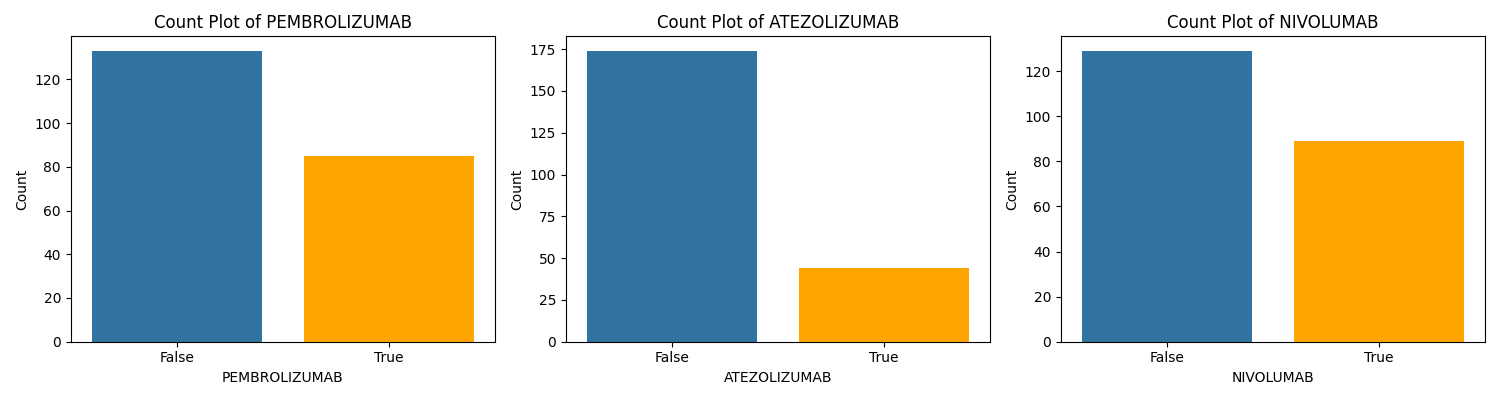
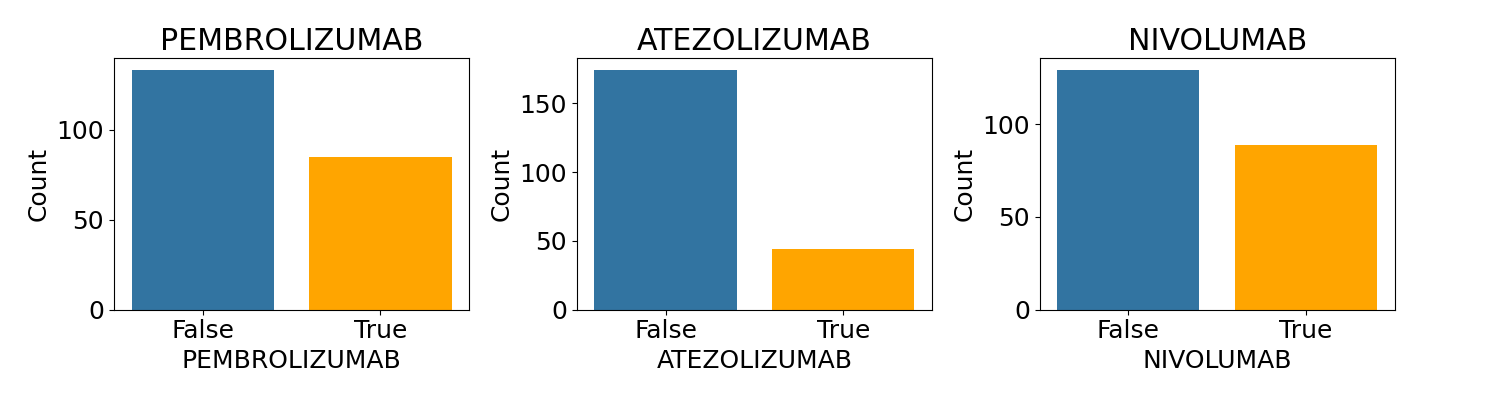
fix plot font sizes

Changed region(s): [[0.0, 0.03, 0.644, 0.96], [0.6133, 0.03, 0.9813, 0.96]]

diff --git a/eda/plots.py b/eda/plots.py
@@ -16,15 +16,17 @@ df = df.drop(columns=exclude_vars)
 
 print(df.columns)
 
-# Select variables to plot
+# rename long column names
+df = df.rename(columns={'CLINICALLY_REPORTED_PD-L1_SCORE': 'PD-L1_SCORE'})
 
 # 'PFS_STATUS', include PFS via KM
 demographic_variables = ['AGE', 'IS_FEMALE', 'PACK-YEAR_HISTORY']
 clinical_variables = ['ECOG', 'DNLR', 'ALBUMIN']
-genomic_variables = ['EGFR_DRIVER', 'ERBB2_DRIVER', 'STK11_DRIVER', "IMPACT_TMB_SCORE", "CLINICALLY_REPORTED_PD-L1_SCORE", 'FRACTION_GENOME_ALTERED']
+genomic_variables = ["IMPACT_TMB_SCORE", "PD-L1_SCORE", 'FRACTION_GENOME_ALTERED']
 drug_variables = ['PEMBROLIZUMAB', 'ATEZOLIZUMAB', 'NIVOLUMAB']
 
 def make_plots(variables_to_plot, name):
+    plt.rcParams.update({'font.size': 18})
     # Determine grid size for subplots based on the number of variables
     n_plots = len(variables_to_plot)
     if n_plots == 3:
@@ -57,7 +59,7 @@ def make_plots(variables_to_plot, name):
             counts = df[col].value_counts()
             labels = ['Male', 'Female'] if set(df[col]) == {0, 1} else counts.index
             ax.pie(counts, labels=labels, autopct='%1.1f%%')
-            ax.set_title('Pie Chart of IS_FEMALE')
+            ax.set_title('SEX')
         elif col == 'PFS_MONTHS':
             # Kaplan-Meier Survival Curve
             T = df['PFS_MONTHS']
@@ -84,7 +86,7 @@ def make_plots(variables_to_plot, name):
             if dtype == 'object' or n_unique <= 5:
                 # Categorical or binary variable
                 sns.countplot(x=col, data=df, ax=ax)
-                ax.set_title(f'Count Plot of {col}')
+                ax.set_title(f'{col}')
                 ax.set_xlabel(col)
                 ax.set_ylabel('Count')
                 
@@ -94,18 +96,16 @@ def make_plots(variables_to_plot, name):
             else:
                 # Quantitative variable
                 sns.histplot(df[col].dropna(), kde=False, ax=ax)
-                ax.set_title(f'Histogram of {col}')
+                ax.set_title(f'{col}')
                 ax.set_xlabel(col)
                 ax.set_ylabel('Frequency')
-
-    # adjust spacing between plots
-    plt.subplots_adjust(wspace=0, hspace=0)
     
     # Hide any unused subplots
     for j in range(i + 1, n_rows * n_cols):
         fig.delaxes(axes[j])
 
     plt.tight_layout()
+    plt.subplots_adjust(right = 0.93)
     plt.savefig(f'{name}.png')
     plt.show()
     
@@ -123,7 +123,24 @@ def info():
     # Pack-year
     print(f"Minimum Pack-Year History: {df['PACK-YEAR_HISTORY'].min()}, Median Pack-Year History: {df['PACK-YEAR_HISTORY'].median()}, Maximum Pack-Year History: {df['PACK-YEAR_HISTORY'].max()}")
     
-#make_plots(demographic_variables, "EDA Demographic Plots - MSKMIND")
-#make_plots(clinical_variables, "EDA Clinical Plots - MSKMIND")
+    # PD-l1 score
+    print(f"Minimum PD-L1 Score: {df['PD-L1_SCORE'].min()}, Median PD-L1 Score: {df['PD-L1_SCORE'].median()}, Maximum PD-L1 Score: {df['PD-L1_SCORE'].max()}")
+    # percent non-zero
+    print("Percent of patients with non-zero PD-L1 Score:", df['PD-L1_SCORE'].gt(0).mean())
+    # percent greater than 50
+    print("Percent of patients with PD-L1 Score > 50:", df['PD-L1_SCORE'].gt(50).mean())
+    # percent greater than 1
+    print("Percent of patients with PD-L1 Score > 1:", df['PD-L1_SCORE'].gt(1).mean())
+    #'EGFR_DRIVER', 'ERBB2_DRIVER', 'STK11_DRIVER',
+    print("Number of patients with EGFR_DRIVER == 1:", df['EGFR_DRIVER'].sum())
+    print("Number of patients with ERBB2_DRIVER == 1:", df['ERBB2_DRIVER'].sum())
+    print("Number of patients with STK11_DRIVER == 1:", df['STK11_DRIVER'].sum())
+    
+    # TMB
+    print(f"Minimum TMB Score: {df['IMPACT_TMB_SCORE'].min()}, Median TMB Score: {df['IMPACT_TMB_SCORE'].median()}, Maximum TMB Score: {df['IMPACT_TMB_SCORE'].max()}")
+    
+#make_plots(demographic_variables, "eda/EDA Demographic Plots - MSKMIND")
+#make_plots(clinical_variables, "eda/EDA Clinical Plots - MSKMIND")
 #make_plots(genomic_variables, "eda/EDA Genomic Plots - MSKMIND")
-make_plots(drug_variables, "eda/EDA Drug Plots - MSKMIND")
+#make_plots(drug_variables, "eda/EDA Drug Plots - MSKMIND")
+info()

diff --git a/eda/correlation-all.py b/eda/correlation-all.py
@@ -22,9 +22,8 @@ def create_corr(df, name):
     plt.tight_layout()
 
     name = name.replace(' ', '-')
-    plt.savefig(f'eda/correlation-all-{name}.png')
+    plt.savefig(f'eda/correlation-all-{name}-2.png')
     plt.show()
 
 surv = pd.read_csv('survival.csv')
-surv.drop(columns = ["PACK-YEAR_HISTORY"], inplace=True)
 create_corr(surv, 'MSK MIND LUAD')
